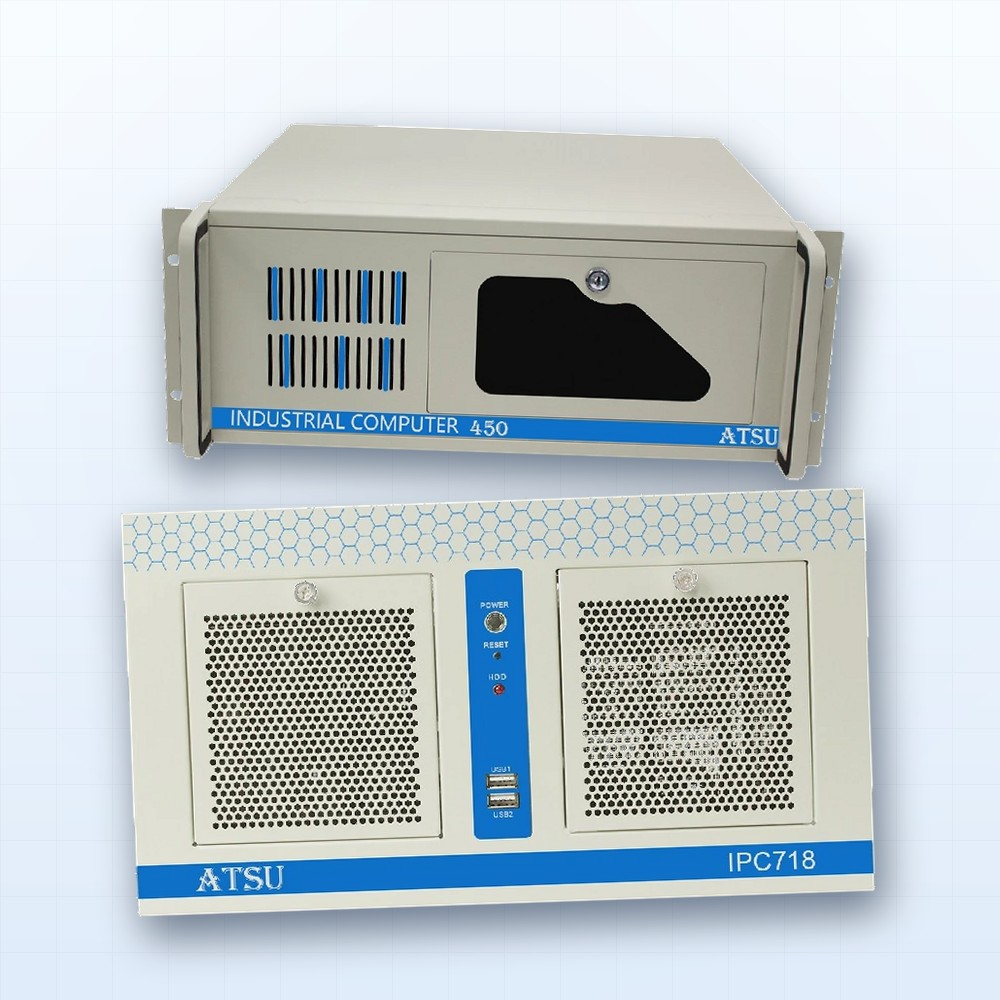
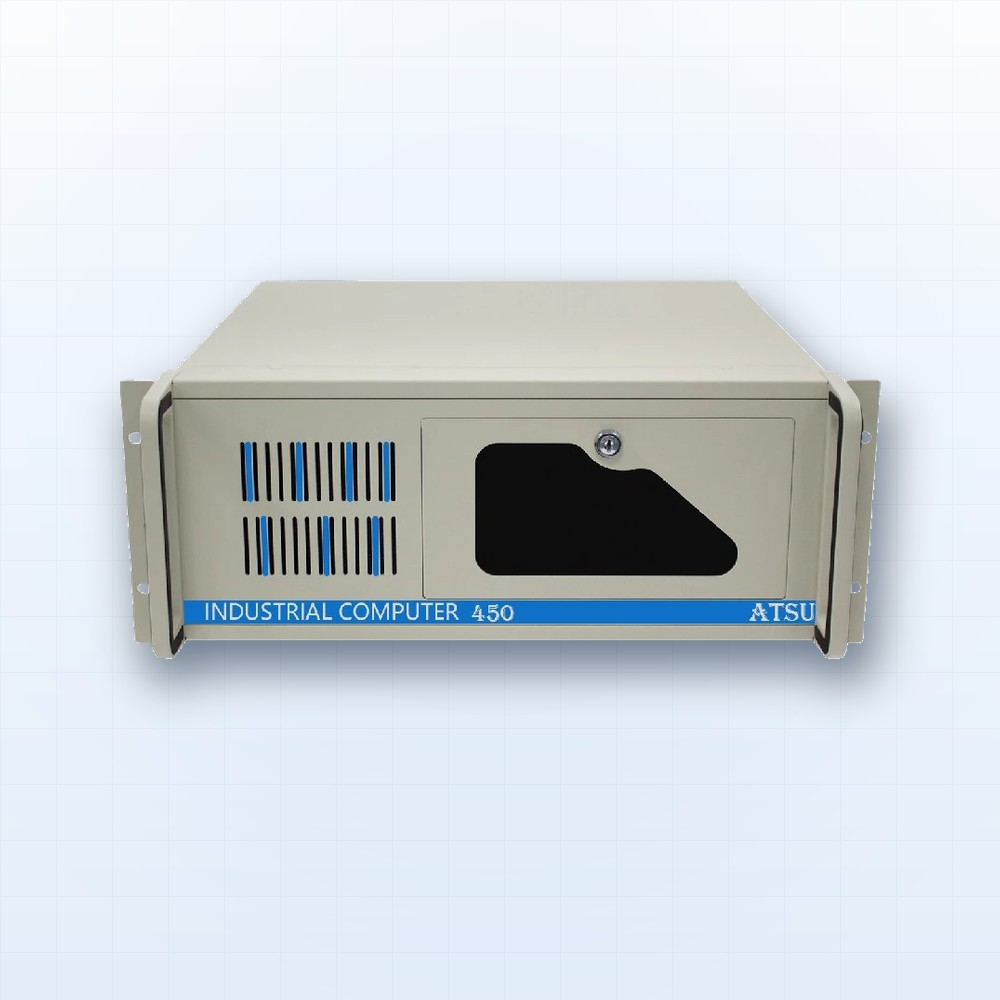
产品图统一摆正：移除图片旋转，重做家族图与整机图

diff --git a/assets/css/style.css b/assets/css/style.css
@@ -1,4 +1,4 @@
-/* ==========================================================================
+/* ==========================================================================
    源图智能 ATSU — 工业计算平台
    Design system + layout
    ========================================================================== */
@@ -697,11 +697,10 @@ body.nav-open .drawer { opacity: 1; visibility: visible; transform: none; }
   object-fit: contain;
   justify-self: end;
   filter: drop-shadow(0 18px 22px rgba(12, 34, 64, 0.2));
-  transform: rotate(-4deg);
   transition: transform 0.5s var(--ease);
 }
 .m-card:nth-child(3) img, .m-card:nth-child(4) img { max-height: 230px; }
-.m-card:hover img { transform: rotate(-1.5deg) translateY(-4px) scale(1.04); }
+.m-card:hover img { transform: translateY(-4px) scale(1.03); }
 
 /* ---------- flagship tabs ---------- */
 .flagship {
